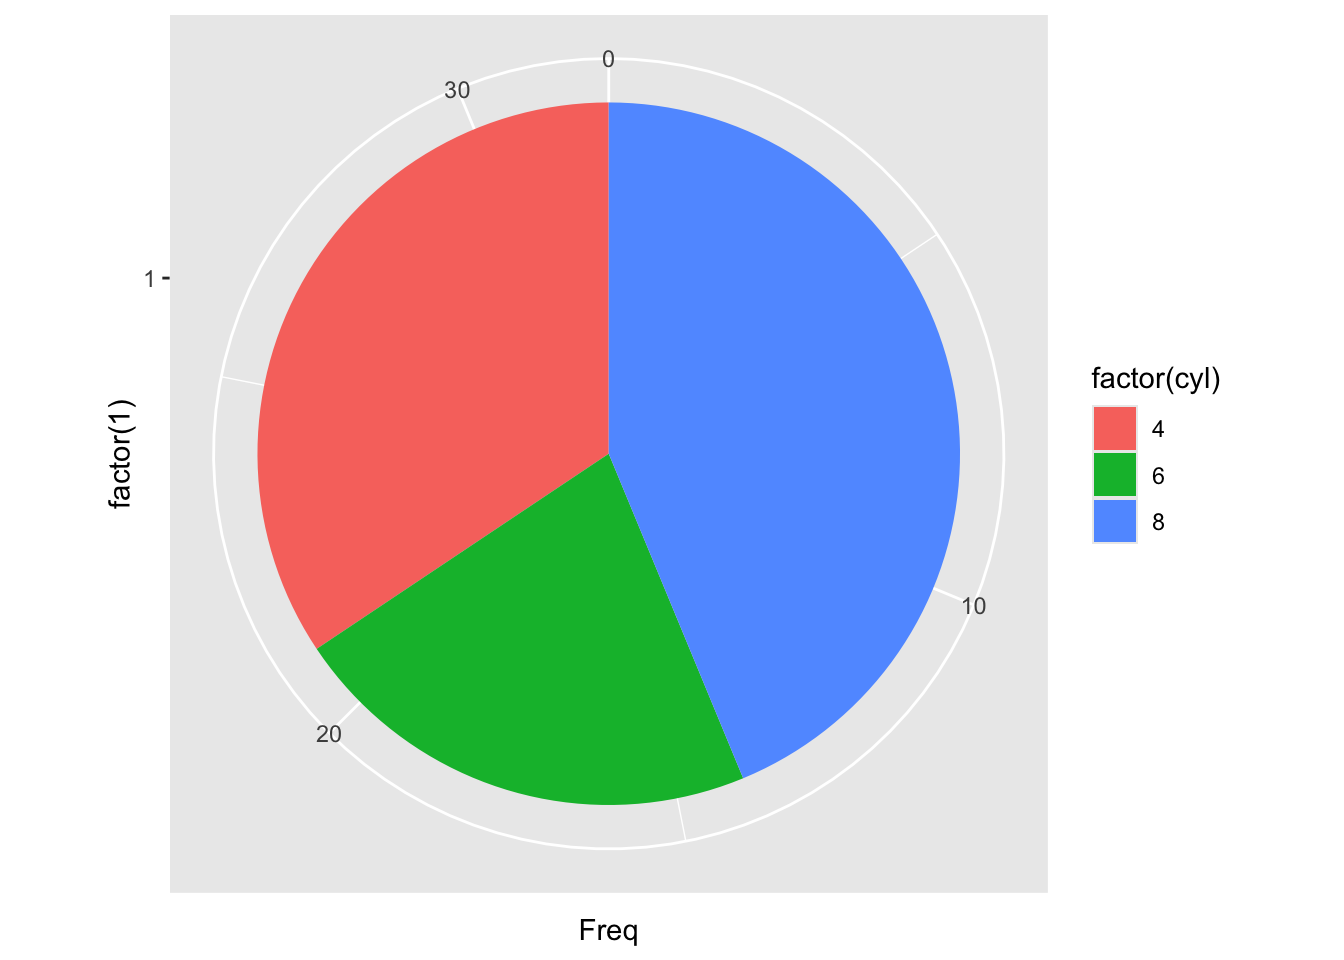
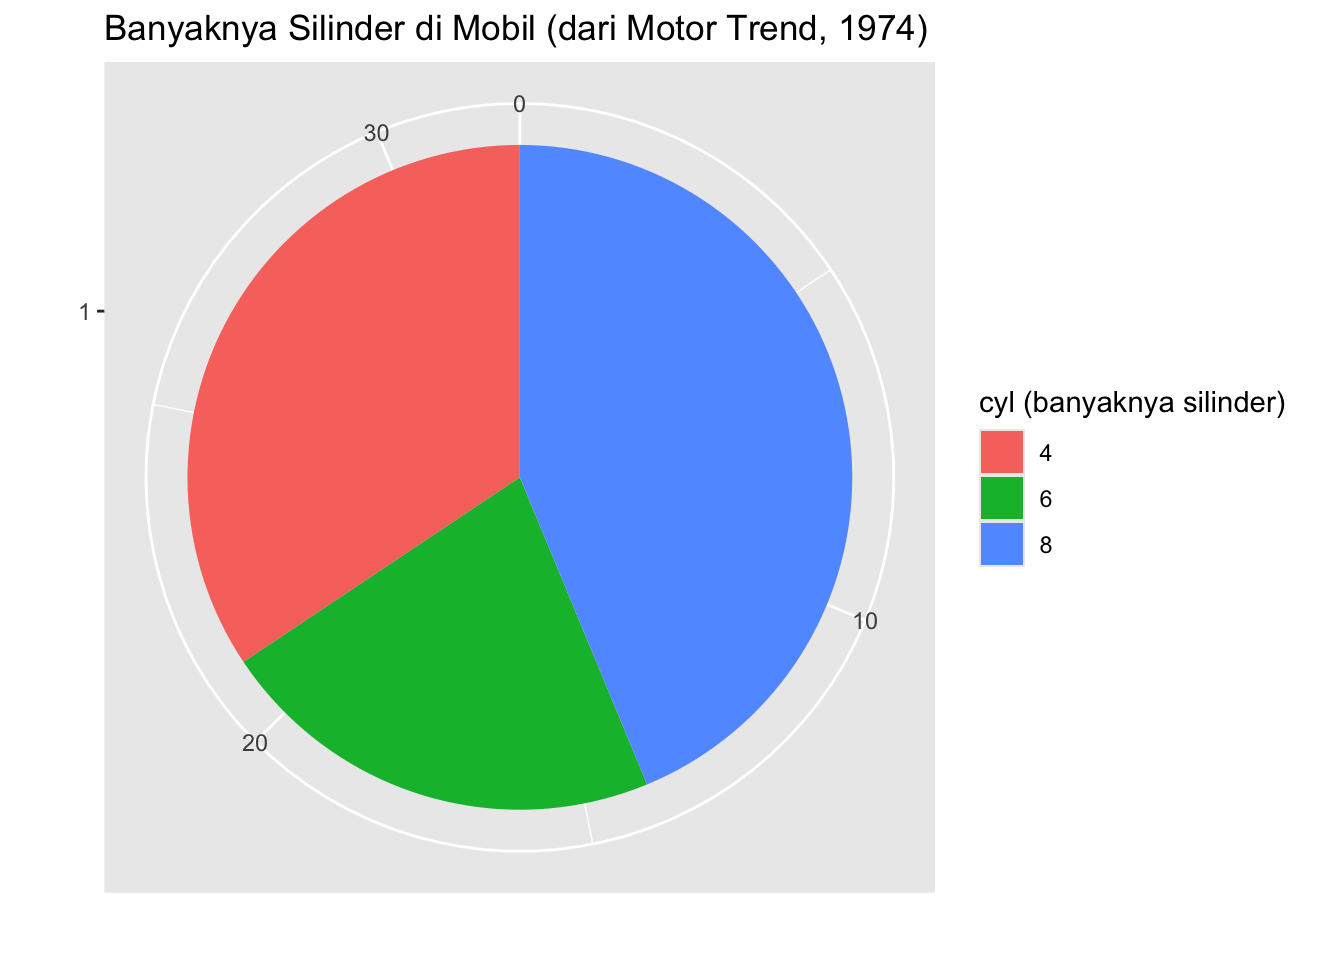
quarto render modul4 prak psd

diff --git a/docs/semuahalaman/modulprak/2024/ganjil/psd/modul4.html b/docs/semuahalaman/modulprak/2024/ganjil/psd/modul4.html
@@ -1309,15 +1309,53 @@ Volvo 142E          21.4   4 121.0 109 4.11 2.780 18.60  1  1    4    2</code></
 </div>
 </div>
 <p>Di sini, fungsi <code>factor</code> diperlukan untuk memberitahu R bahwa data <code>cyl</code> berupa data kategorik. Kita juga pasang <code>x = factor(1)</code> karena di sini seolah-olah hanya ada satu batang di <em>bar chart</em> (yang kemudian diterapkan koordinat polar), dan kita biasa hanya memasang sumbu x ketika membuat <em>bar chart</em>.</p>
-<p>Apabila data kita berupa semacam tabel frekuensi saja, kita juga bisa melakukan hal serupa dengan <code>geom_col</code> agar tetap bisa membuat <em>pie chart</em>. Caranya seperti berikut, juga menggantikan <code>x = cyl</code> dengan <code>x = factor(1)</code>, sedangkan opsi <code>fill</code> tetap diberi <code>factor(cyl)</code></p>
+<p>Seperti biasa, kita bisa tambahkan <code>labs</code> untuk menentukan label, seperti menentukan judul, mengosongkan label sumbu x maupun sumbu y, dan menentukan label untuk opsi <code>fill</code> (yang saat ini terpasang menjadi <code>factor(cyl)</code>)</p>
 <div class="cell">
-<div class="sourceCode cell-code" id="cb88"><pre class="sourceCode r code-with-copy"><code class="sourceCode r"><span id="cb88-1"><a href="#cb88-1" aria-hidden="true" tabindex="-1"></a><span class="fu">ggplot</span>(cyl_freq, <span class="fu">aes</span>(<span class="at">x =</span> <span class="fu">factor</span>(<span class="dv">1</span>), <span class="at">y =</span> Freq, <span class="at">fill =</span> <span class="fu">factor</span>(cyl))) <span class="sc">+</span> </span>
-<span id="cb88-2"><a href="#cb88-2" aria-hidden="true" tabindex="-1"></a>  <span class="fu">geom_col</span>() <span class="sc">+</span></span>
-<span id="cb88-3"><a href="#cb88-3" aria-hidden="true" tabindex="-1"></a>  <span class="fu">coord_polar</span>(<span class="at">theta =</span> <span class="st">"y"</span>)</span></code><button title="Copy to Clipboard" class="code-copy-button"><i class="bi"></i></button></pre></div>
+<div class="sourceCode cell-code" id="cb88"><pre class="sourceCode r code-with-copy"><code class="sourceCode r"><span id="cb88-1"><a href="#cb88-1" aria-hidden="true" tabindex="-1"></a><span class="fu">ggplot</span>(df3, <span class="fu">aes</span>(<span class="at">x =</span> <span class="fu">factor</span>(<span class="dv">1</span>), <span class="at">fill =</span> <span class="fu">factor</span>(cyl))) <span class="sc">+</span> </span>
+<span id="cb88-2"><a href="#cb88-2" aria-hidden="true" tabindex="-1"></a>  <span class="fu">geom_bar</span>(<span class="at">width =</span> <span class="dv">1</span>) <span class="sc">+</span> </span>
+<span id="cb88-3"><a href="#cb88-3" aria-hidden="true" tabindex="-1"></a>  <span class="fu">coord_polar</span>(<span class="at">theta =</span> <span class="st">"y"</span>) <span class="sc">+</span></span>
+<span id="cb88-4"><a href="#cb88-4" aria-hidden="true" tabindex="-1"></a>  <span class="fu">labs</span>(</span>
+<span id="cb88-5"><a href="#cb88-5" aria-hidden="true" tabindex="-1"></a>    <span class="at">title =</span> <span class="st">"Banyaknya Silinder di Mobil (dari Motor Trend, 1974)"</span>,</span>
+<span id="cb88-6"><a href="#cb88-6" aria-hidden="true" tabindex="-1"></a>    <span class="at">x =</span> <span class="st">""</span>,</span>
+<span id="cb88-7"><a href="#cb88-7" aria-hidden="true" tabindex="-1"></a>    <span class="at">y =</span> <span class="st">""</span>,</span>
+<span id="cb88-8"><a href="#cb88-8" aria-hidden="true" tabindex="-1"></a>    <span class="at">fill =</span> <span class="st">"cyl (banyaknya silinder)"</span></span>
+<span id="cb88-9"><a href="#cb88-9" aria-hidden="true" tabindex="-1"></a>  )</span></code><button title="Copy to Clipboard" class="code-copy-button"><i class="bi"></i></button></pre></div>
 <div class="cell-output-display">
 <div>
 <figure class="figure">
 <p><img src="modul4_files/figure-html/unnamed-chunk-68-1.png" class="img-fluid figure-img" width="672"></p>
+</figure>
+</div>
+</div>
+</div>
+<p>Apabila data kita berupa semacam tabel frekuensi saja, kita juga bisa melakukan hal serupa dengan <code>geom_col</code> agar tetap bisa membuat <em>pie chart</em>. Caranya seperti berikut, juga menggantikan <code>x = cyl</code> dengan <code>x = factor(1)</code>, sedangkan opsi <code>fill</code> tetap diberi <code>factor(cyl)</code></p>
+<div class="cell">
+<div class="sourceCode cell-code" id="cb89"><pre class="sourceCode r code-with-copy"><code class="sourceCode r"><span id="cb89-1"><a href="#cb89-1" aria-hidden="true" tabindex="-1"></a><span class="fu">ggplot</span>(cyl_freq, <span class="fu">aes</span>(<span class="at">x =</span> <span class="fu">factor</span>(<span class="dv">1</span>), <span class="at">y =</span> Freq, <span class="at">fill =</span> <span class="fu">factor</span>(cyl))) <span class="sc">+</span> </span>
+<span id="cb89-2"><a href="#cb89-2" aria-hidden="true" tabindex="-1"></a>  <span class="fu">geom_col</span>() <span class="sc">+</span></span>
+<span id="cb89-3"><a href="#cb89-3" aria-hidden="true" tabindex="-1"></a>  <span class="fu">coord_polar</span>(<span class="at">theta =</span> <span class="st">"y"</span>)</span></code><button title="Copy to Clipboard" class="code-copy-button"><i class="bi"></i></button></pre></div>
+<div class="cell-output-display">
+<div>
+<figure class="figure">
+<p><img src="modul4_files/figure-html/unnamed-chunk-69-1.png" class="img-fluid figure-img" width="672"></p>
+</figure>
+</div>
+</div>
+</div>
+<p>Label bisa kita tentukan dengan menambahkan <code>labs</code> seperti biasa</p>
+<div class="cell">
+<div class="sourceCode cell-code" id="cb90"><pre class="sourceCode r code-with-copy"><code class="sourceCode r"><span id="cb90-1"><a href="#cb90-1" aria-hidden="true" tabindex="-1"></a><span class="fu">ggplot</span>(cyl_freq, <span class="fu">aes</span>(<span class="at">x =</span> <span class="fu">factor</span>(<span class="dv">1</span>), <span class="at">y =</span> Freq, <span class="at">fill =</span> <span class="fu">factor</span>(cyl))) <span class="sc">+</span> </span>
+<span id="cb90-2"><a href="#cb90-2" aria-hidden="true" tabindex="-1"></a>  <span class="fu">geom_col</span>() <span class="sc">+</span></span>
+<span id="cb90-3"><a href="#cb90-3" aria-hidden="true" tabindex="-1"></a>  <span class="fu">coord_polar</span>(<span class="at">theta =</span> <span class="st">"y"</span>) <span class="sc">+</span></span>
+<span id="cb90-4"><a href="#cb90-4" aria-hidden="true" tabindex="-1"></a>  <span class="fu">labs</span>(</span>
+<span id="cb90-5"><a href="#cb90-5" aria-hidden="true" tabindex="-1"></a>    <span class="at">title =</span> <span class="st">"Pie Chart Banyaknya Silinder dari Tabel Frekuensi"</span>,</span>
+<span id="cb90-6"><a href="#cb90-6" aria-hidden="true" tabindex="-1"></a>    <span class="at">x =</span> <span class="st">""</span>,</span>
+<span id="cb90-7"><a href="#cb90-7" aria-hidden="true" tabindex="-1"></a>    <span class="at">y =</span> <span class="st">""</span>,</span>
+<span id="cb90-8"><a href="#cb90-8" aria-hidden="true" tabindex="-1"></a>    <span class="at">fill =</span> <span class="st">"cyl (banyaknya silinder)"</span></span>
+<span id="cb90-9"><a href="#cb90-9" aria-hidden="true" tabindex="-1"></a>  )</span></code><button title="Copy to Clipboard" class="code-copy-button"><i class="bi"></i></button></pre></div>
+<div class="cell-output-display">
+<div>
+<figure class="figure">
+<p><img src="modul4_files/figure-html/unnamed-chunk-70-1.png" class="img-fluid figure-img" width="672"></p>
 </figure>
 </div>
 </div>
@@ -1327,39 +1365,39 @@ Volvo 142E          21.4   4 121.0 109 4.11 2.780 18.60  1  1    4    2</code></
 <h2 class="anchored" data-anchor-id="histogram"><em>Histogram</em></h2>
 <p>Di <code>ggplot2</code>, <em>histogram</em> juga seolah-olah seperti sejenis <em>bar chart</em>. Mari kita coba gambar <em>histogram</em> untuk <code>Sepal.Length</code> seperti di pertemuan sebelumnya. Kali ini, tambahkan <code>geom_histogram</code></p>
 <div class="cell">
-<div class="sourceCode cell-code" id="cb89"><pre class="sourceCode r code-with-copy"><code class="sourceCode r"><span id="cb89-1"><a href="#cb89-1" aria-hidden="true" tabindex="-1"></a><span class="fu">ggplot</span>(df1, <span class="fu">aes</span>(<span class="at">x =</span> Sepal.Length)) <span class="sc">+</span> </span>
-<span id="cb89-2"><a href="#cb89-2" aria-hidden="true" tabindex="-1"></a>  <span class="fu">geom_histogram</span>()</span></code><button title="Copy to Clipboard" class="code-copy-button"><i class="bi"></i></button></pre></div>
+<div class="sourceCode cell-code" id="cb91"><pre class="sourceCode r code-with-copy"><code class="sourceCode r"><span id="cb91-1"><a href="#cb91-1" aria-hidden="true" tabindex="-1"></a><span class="fu">ggplot</span>(df1, <span class="fu">aes</span>(<span class="at">x =</span> Sepal.Length)) <span class="sc">+</span> </span>
+<span id="cb91-2"><a href="#cb91-2" aria-hidden="true" tabindex="-1"></a>  <span class="fu">geom_histogram</span>()</span></code><button title="Copy to Clipboard" class="code-copy-button"><i class="bi"></i></button></pre></div>
 <div class="cell-output cell-output-stderr">
 <pre><code>`stat_bin()` using `bins = 30`. Pick better value with `binwidth`.</code></pre>
 </div>
 <div class="cell-output-display">
 <div>
 <figure class="figure">
-<p><img src="modul4_files/figure-html/unnamed-chunk-69-1.png" class="img-fluid figure-img" width="672"></p>
+<p><img src="modul4_files/figure-html/unnamed-chunk-71-1.png" class="img-fluid figure-img" width="672"></p>
 </figure>
 </div>
 </div>
 </div>
 <p>Kita bisa menentukan lebar batang di <em>histogram</em> dengan opsi <code>binwidth</code></p>
 <div class="cell">
-<div class="sourceCode cell-code" id="cb91"><pre class="sourceCode r code-with-copy"><code class="sourceCode r"><span id="cb91-1"><a href="#cb91-1" aria-hidden="true" tabindex="-1"></a><span class="fu">ggplot</span>(df1, <span class="fu">aes</span>(<span class="at">x =</span> Sepal.Length)) <span class="sc">+</span> </span>
-<span id="cb91-2"><a href="#cb91-2" aria-hidden="true" tabindex="-1"></a>  <span class="fu">geom_histogram</span>(<span class="at">binwidth =</span> <span class="fl">0.5</span>)</span></code><button title="Copy to Clipboard" class="code-copy-button"><i class="bi"></i></button></pre></div>
+<div class="sourceCode cell-code" id="cb93"><pre class="sourceCode r code-with-copy"><code class="sourceCode r"><span id="cb93-1"><a href="#cb93-1" aria-hidden="true" tabindex="-1"></a><span class="fu">ggplot</span>(df1, <span class="fu">aes</span>(<span class="at">x =</span> Sepal.Length)) <span class="sc">+</span> </span>
+<span id="cb93-2"><a href="#cb93-2" aria-hidden="true" tabindex="-1"></a>  <span class="fu">geom_histogram</span>(<span class="at">binwidth =</span> <span class="fl">0.5</span>)</span></code><button title="Copy to Clipboard" class="code-copy-button"><i class="bi"></i></button></pre></div>
 <div class="cell-output-display">
 <div>
 <figure class="figure">
-<p><img src="modul4_files/figure-html/unnamed-chunk-70-1.png" class="img-fluid figure-img" width="672"></p>
+<p><img src="modul4_files/figure-html/unnamed-chunk-72-1.png" class="img-fluid figure-img" width="672"></p>
 </figure>
 </div>
 </div>
 </div>
 <p>Kita juga bisa memberi opsi warna, yaitu <code>fill</code> untuk warna isi batangnya dan <code>color</code> untuk warna pinggiran batangnya.</p>
 <div class="cell">
-<div class="sourceCode cell-code" id="cb92"><pre class="sourceCode r code-with-copy"><code class="sourceCode r"><span id="cb92-1"><a href="#cb92-1" aria-hidden="true" tabindex="-1"></a><span class="fu">ggplot</span>(df1, <span class="fu">aes</span>(<span class="at">x =</span> Sepal.Length)) <span class="sc">+</span> </span>
-<span id="cb92-2"><a href="#cb92-2" aria-hidden="true" tabindex="-1"></a>  <span class="fu">geom_histogram</span>(<span class="at">binwidth =</span> <span class="fl">0.5</span>, <span class="at">fill =</span> <span class="st">"skyblue"</span>, <span class="at">color =</span> <span class="st">"black"</span>)</span></code><button title="Copy to Clipboard" class="code-copy-button"><i class="bi"></i></button></pre></div>
+<div class="sourceCode cell-code" id="cb94"><pre class="sourceCode r code-with-copy"><code class="sourceCode r"><span id="cb94-1"><a href="#cb94-1" aria-hidden="true" tabindex="-1"></a><span class="fu">ggplot</span>(df1, <span class="fu">aes</span>(<span class="at">x =</span> Sepal.Length)) <span class="sc">+</span> </span>
+<span id="cb94-2"><a href="#cb94-2" aria-hidden="true" tabindex="-1"></a>  <span class="fu">geom_histogram</span>(<span class="at">binwidth =</span> <span class="fl">0.5</span>, <span class="at">fill =</span> <span class="st">"skyblue"</span>, <span class="at">color =</span> <span class="st">"black"</span>)</span></code><button title="Copy to Clipboard" class="code-copy-button"><i class="bi"></i></button></pre></div>
 <div class="cell-output-display">
 <div>
 <figure class="figure">
-<p><img src="modul4_files/figure-html/unnamed-chunk-71-1.png" class="img-fluid figure-img" width="672"></p>
+<p><img src="modul4_files/figure-html/unnamed-chunk-73-1.png" class="img-fluid figure-img" width="672"></p>
 </figure>
 </div>
 </div>
@@ -1369,24 +1407,24 @@ Volvo 142E          21.4   4 121.0 109 4.11 2.780 18.60  1  1    4    2</code></
 <h2 class="anchored" data-anchor-id="boxplot-1"><em>Boxplot</em></h2>
 <p>Untuk <em>boxplot</em>, tambahkan <code>geom_boxplot</code></p>
 <div class="cell">
-<div class="sourceCode cell-code" id="cb93"><pre class="sourceCode r code-with-copy"><code class="sourceCode r"><span id="cb93-1"><a href="#cb93-1" aria-hidden="true" tabindex="-1"></a><span class="fu">ggplot</span>(df1, <span class="fu">aes</span>(<span class="at">x =</span> Species, <span class="at">y =</span> Sepal.Length)) <span class="sc">+</span> </span>
-<span id="cb93-2"><a href="#cb93-2" aria-hidden="true" tabindex="-1"></a>  <span class="fu">geom_boxplot</span>()</span></code><button title="Copy to Clipboard" class="code-copy-button"><i class="bi"></i></button></pre></div>
+<div class="sourceCode cell-code" id="cb95"><pre class="sourceCode r code-with-copy"><code class="sourceCode r"><span id="cb95-1"><a href="#cb95-1" aria-hidden="true" tabindex="-1"></a><span class="fu">ggplot</span>(df1, <span class="fu">aes</span>(<span class="at">x =</span> Species, <span class="at">y =</span> Sepal.Length)) <span class="sc">+</span> </span>
+<span id="cb95-2"><a href="#cb95-2" aria-hidden="true" tabindex="-1"></a>  <span class="fu">geom_boxplot</span>()</span></code><button title="Copy to Clipboard" class="code-copy-button"><i class="bi"></i></button></pre></div>
 <div class="cell-output-display">
 <div>
 <figure class="figure">
-<p><img src="modul4_files/figure-html/unnamed-chunk-72-1.png" class="img-fluid figure-img" width="672"></p>
+<p><img src="modul4_files/figure-html/unnamed-chunk-74-1.png" class="img-fluid figure-img" width="672"></p>
 </figure>
 </div>
 </div>
 </div>
 <p>Kita juga bisa menenukan warna isi yaitu <code>fill</code> dan warna pinggiran yaitu <code>color</code></p>
 <div class="cell">
-<div class="sourceCode cell-code" id="cb94"><pre class="sourceCode r code-with-copy"><code class="sourceCode r"><span id="cb94-1"><a href="#cb94-1" aria-hidden="true" tabindex="-1"></a><span class="fu">ggplot</span>(df1, <span class="fu">aes</span>(<span class="at">x =</span> Species, <span class="at">y =</span> Sepal.Length)) <span class="sc">+</span> </span>
-<span id="cb94-2"><a href="#cb94-2" aria-hidden="true" tabindex="-1"></a>  <span class="fu">geom_boxplot</span>(<span class="at">fill =</span> <span class="st">"skyblue"</span>, <span class="at">color =</span> <span class="st">"black"</span>)</span></code><button title="Copy to Clipboard" class="code-copy-button"><i class="bi"></i></button></pre></div>
+<div class="sourceCode cell-code" id="cb96"><pre class="sourceCode r code-with-copy"><code class="sourceCode r"><span id="cb96-1"><a href="#cb96-1" aria-hidden="true" tabindex="-1"></a><span class="fu">ggplot</span>(df1, <span class="fu">aes</span>(<span class="at">x =</span> Species, <span class="at">y =</span> Sepal.Length)) <span class="sc">+</span> </span>
+<span id="cb96-2"><a href="#cb96-2" aria-hidden="true" tabindex="-1"></a>  <span class="fu">geom_boxplot</span>(<span class="at">fill =</span> <span class="st">"skyblue"</span>, <span class="at">color =</span> <span class="st">"black"</span>)</span></code><button title="Copy to Clipboard" class="code-copy-button"><i class="bi"></i></button></pre></div>
 <div class="cell-output-display">
 <div>
 <figure class="figure">
-<p><img src="modul4_files/figure-html/unnamed-chunk-73-1.png" class="img-fluid figure-img" width="672"></p>
+<p><img src="modul4_files/figure-html/unnamed-chunk-75-1.png" class="img-fluid figure-img" width="672"></p>
 </figure>
 </div>
 </div>

diff --git a/docs/semuahalaman/modulprak/2024/ganjil/psd/psd2024.html b/docs/semuahalaman/modulprak/2024/ganjil/psd/psd2024.html
@@ -258,7 +258,7 @@ Sep 30, 2024
 </div>
 </a>
 </div>
-<div class="g-col-1" data-index="3" data-listing-date-sort="1728234000000" data-listing-file-modified-sort="1728395850066" data-listing-date-modified-sort="NaN" data-listing-reading-time-sort="12" data-listing-word-count-sort="2313">
+<div class="g-col-1" data-index="3" data-listing-date-sort="1728234000000" data-listing-file-modified-sort="1728397352599" data-listing-date-modified-sort="NaN" data-listing-reading-time-sort="13" data-listing-word-count-sort="2462">
 <a href="../../../../../semuahalaman/modulprak/2024/ganjil/psd/modul4.html" class="quarto-grid-link">
 <div class="quarto-grid-item card h-100 card-left">
 <p class="card-img-top"><img src="modul4_files/figure-html/unnamed-chunk-5-1.png" style="height: 150px;"  class="thumbnail-image card-img"/></p>
